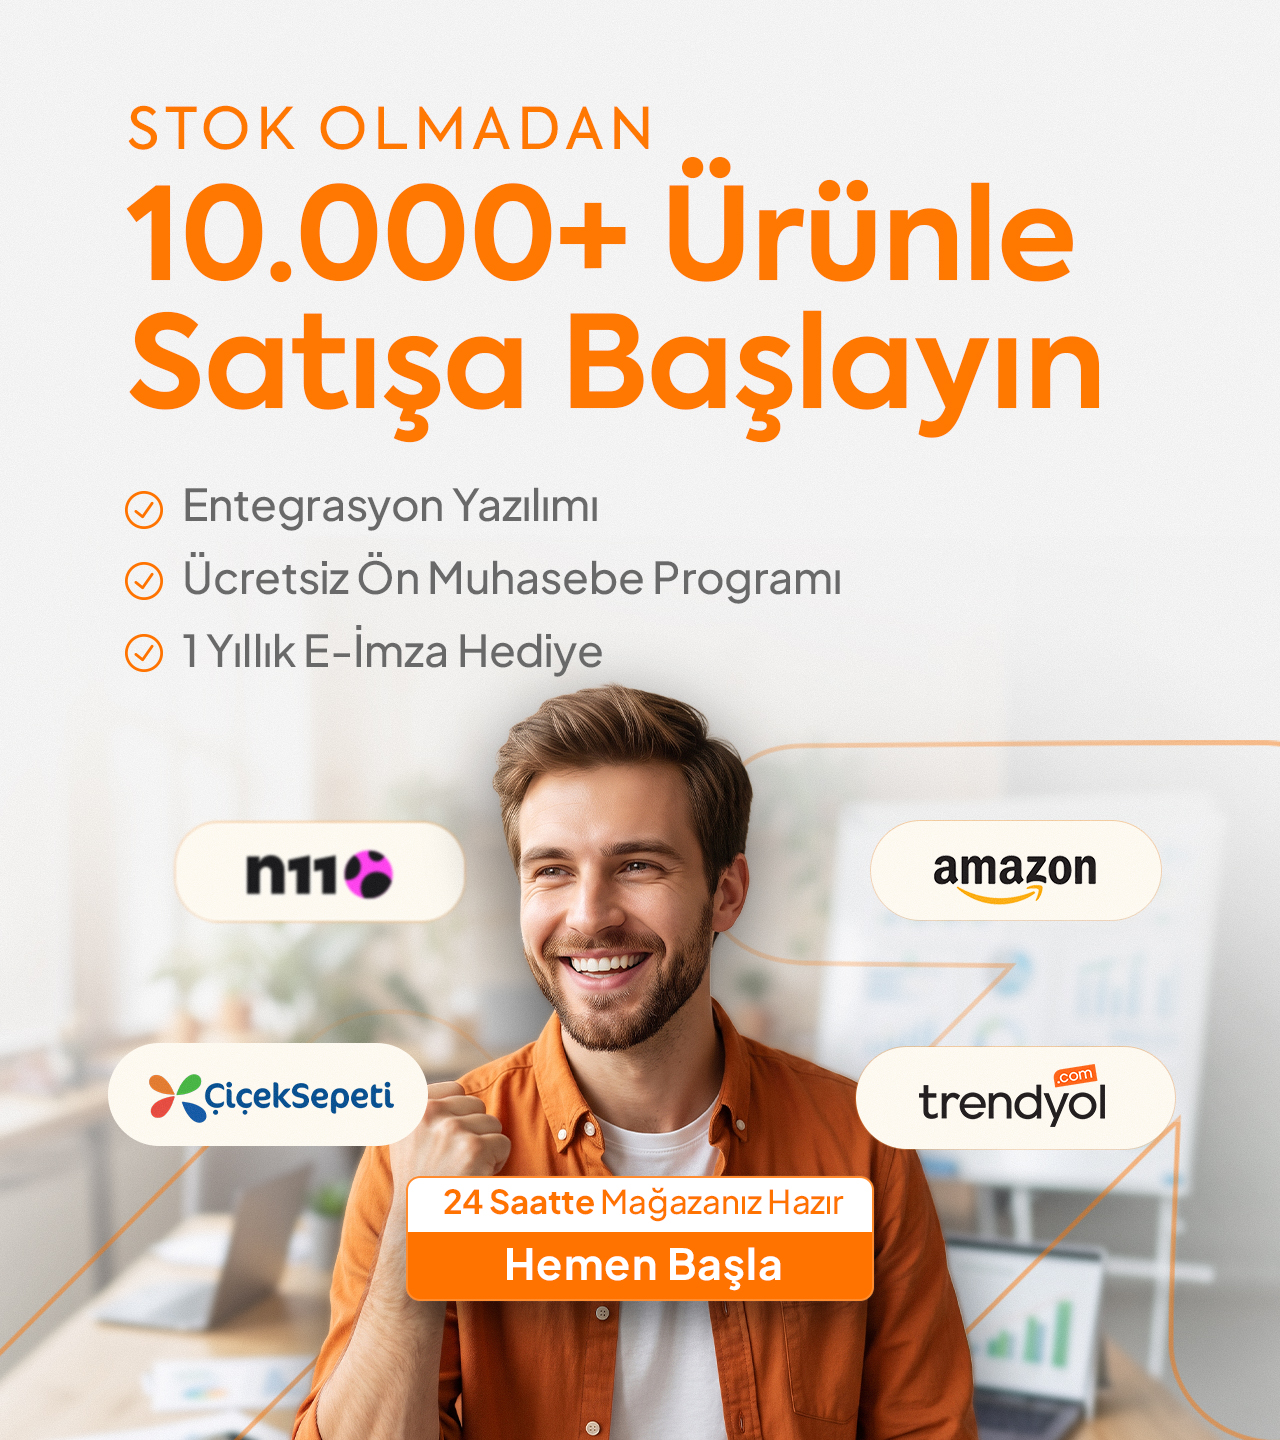
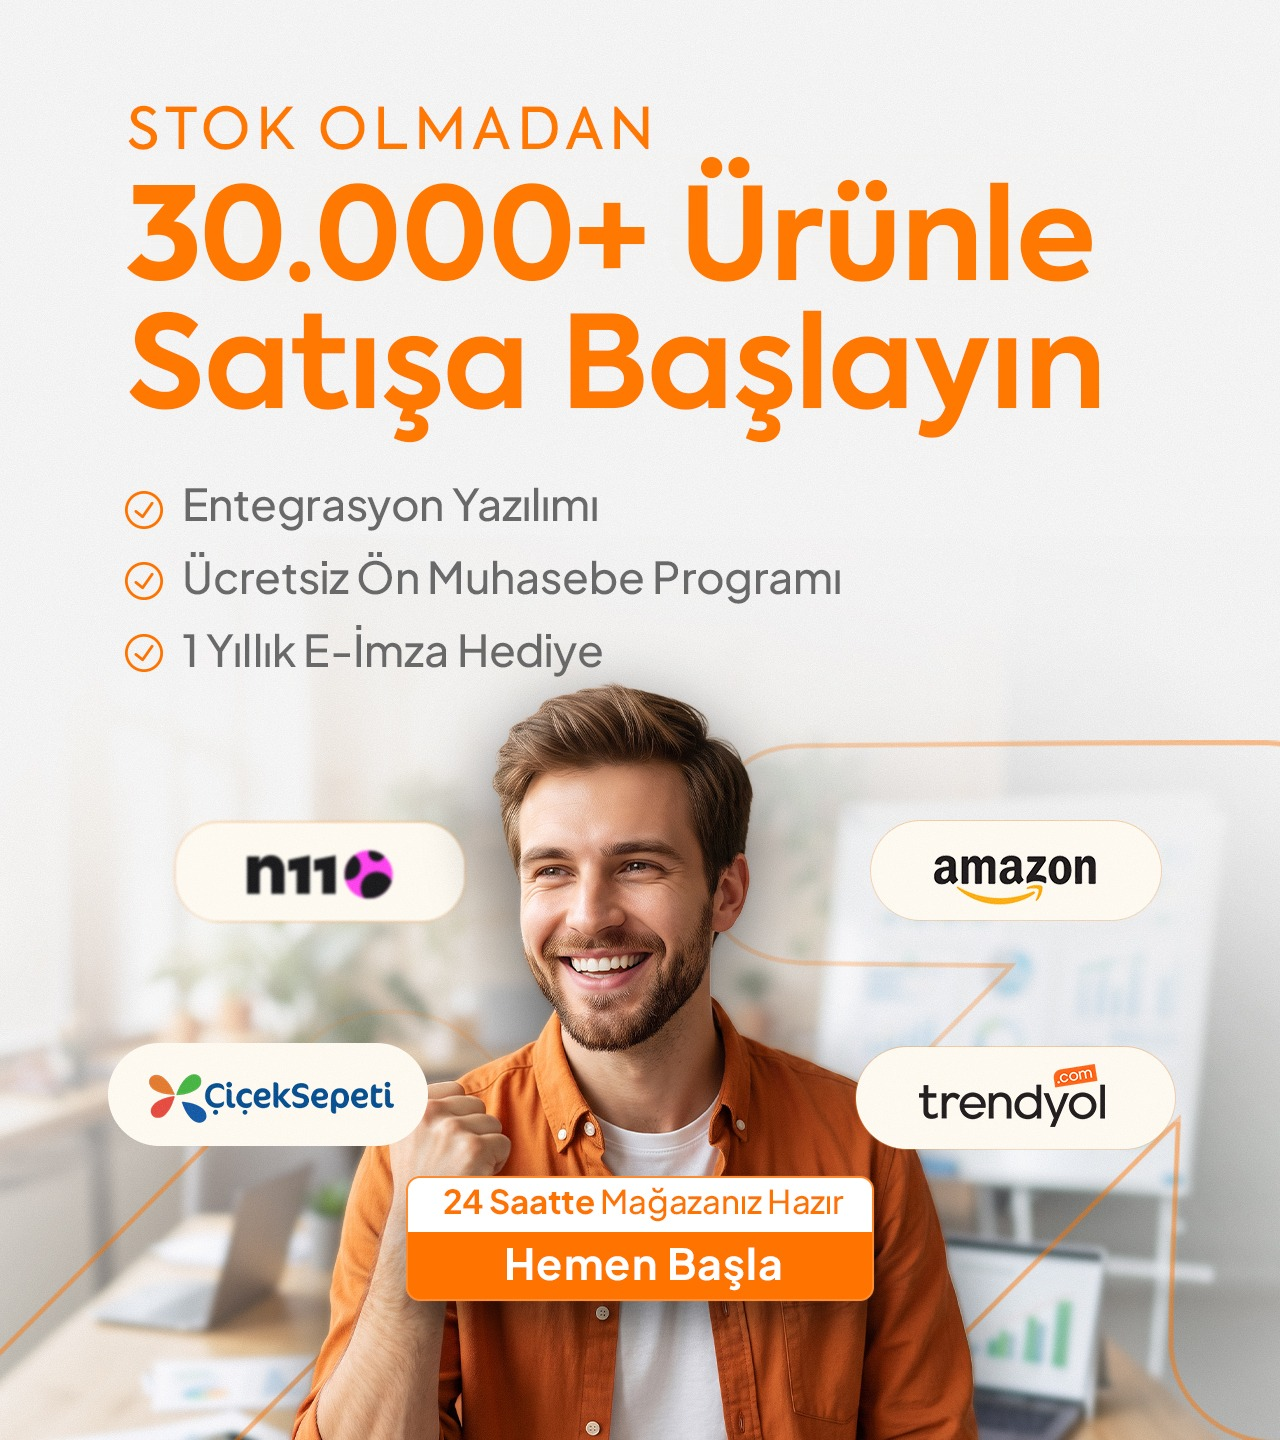
content: 30.000+ ürün sayısı ve yeni iletişim telefonu
- Slider görselleri (web1/mobil1) "30.000+ Ürünle" olarak düzenlendi, önbellek sürümü v=5
- Paket özelliklerindeki 15.000 / 8.000 + ürün ifadeleri 30.000 olarak güncellendi
- Telefon 0850 309 84 19 yerine 0532 390 86 18 (site, JSON-LD, llms ve ai metinleri)

diff --git a/pages/Paketler.tsx b/pages/Paketler.tsx
@@ -33,7 +33,7 @@ const COMPARISON_FEATURES = [
   { name: 'Kar Marjı Düzenleme & Finans Eğitimi', pazaryeri: true, sifirSermaye: false, fullFull: true },
   { name: 'Kargo ve Sevkiyat', pazaryeri: true, sifirSermaye: true, fullFull: true },
   { name: 'Kurulum Planı Dahil Hazır E-Ticaret Sitesi', pazaryeri: false, sifirSermaye: true, fullFull: true },
-  { name: "8.000 + Farklı Hazır Ürün", pazaryeri: true, sifirSermaye: true, fullFull: true },
+  { name: "30.000 + Farklı Hazır Ürün", pazaryeri: true, sifirSermaye: true, fullFull: true },
   { name: 'Hazır Ödeme Alt Yapısı', pazaryeri: false, sifirSermaye: true, fullFull: true },
   { name: '1 Yıllık Hosting Hizmeti', pazaryeri: false, sifirSermaye: true, fullFull: true },
   { name: 'Vergi ve Faturalama Modeli Bilgilendirmesi', pazaryeri: false, sifirSermaye: true, fullFull: true },
@@ -376,11 +376,11 @@ const Paketler: React.FC = () => {
             Paket kapsamlarını birlikte değerlendirelim; iş modelinize uygun yazılım, kurulum ve eğitim seçeneklerini netleştirelim.
           </p>
           <a
-            href="tel:08503098419"
+            href="tel:+905323908618"
             className="inline-flex min-h-14 w-full items-center justify-center gap-3 rounded-2xl bg-white px-6 py-4 text-base font-black text-orange-600 shadow-xl transition-all hover:bg-orange-50 sm:w-auto sm:px-10 sm:text-lg"
           >
             <Phone className="h-5 w-5 shrink-0 sm:h-6 sm:w-6" />
-            <span>Danışmanla Görüşün · 0850 309 84 19</span>
+            <span>Danışmanla Görüşün · 0532 390 86 18</span>
           </a>
           </Reveal>
         </div>

diff --git a/data/paketlerEgitimStoksuz.ts b/data/paketlerEgitimStoksuz.ts
@@ -24,7 +24,7 @@ export const EGITIM_STOKSUZ_PACKAGES: EgitimStoksuzPaket[] = [
       'N11 / Hepsiburada Panel Eğitimi & Ürün Yükleme',
       'Ürün Araştırma ve Satış Stratejisi Desteği',
       "5 Farklı Sektör, 50'den Fazla Kategori",
-      "8.000 + Hazır Farklı Ürün",
+      "30.000 + Hazır Farklı Ürün",
       'Tedarikçi İlişkileri',
       'Kar Marjı Düzenleme & Finans Eğitimi',
       'Kargo ve Sevkiyat',
@@ -40,7 +40,7 @@ export const EGITIM_STOKSUZ_PACKAGES: EgitimStoksuzPaket[] = [
     highlight: true,
     features: [
       'Kurulum Planı Dahil Hazır E-Ticaret Sitesi',
-      "8.000 + Farklı Hazır Ürün",
+      "30.000 + Farklı Hazır Ürün",
       'Hazır Ödeme Alt Yapısı',
       '1 Yıllık Hosting Hizmeti',
       'Ücretsiz Logo Tasarımı',
@@ -75,7 +75,7 @@ export const EGITIM_STOKSUZ_PACKAGES: EgitimStoksuzPaket[] = [
       'Kar Marjı Düzenleme & Finans Eğitimi',
       'Kargo ve Sevkiyat',
       'Kurulum Planı Dahil Hazır E-Ticaret Sitesi',
-      "8.000 + Farklı Hazır Ürün",
+      "30.000 + Farklı Hazır Ürün",
       '1 Yıllık Hosting Hizmeti',
       'Vergi ve Faturalama Modeli Bilgilendirmesi',
       'Kargo ve Depolama Hizmeti',

diff --git a/data/eticaretPaketOzellikleri.ts b/data/eticaretPaketOzellikleri.ts
@@ -36,7 +36,7 @@ export const YAZILIM_PACKAGES: YazilimPaket[] = [
     highlight: true,
     features: [
       'Başlangıç paketindeki tüm özellikler dahil',
-      'Trendmax Dropshipping (Hazır 15.000 Ürün)',
+      'Trendmax Dropshipping (Hazır 30.000 Ürün)',
       '8 Pazar Yeri Entegrasyonu',
       'E-fatura & E-arşiv GİB Entegrasyonu',
       'XML Import / Export Sistemi',
@@ -46,7 +46,7 @@ export const YAZILIM_PACKAGES: YazilimPaket[] = [
       'Sınırsız Ürün Varyantları',
       'Favorilere Ekleme Özelliği',
       'Toplu Ürün Güncelleme Modülü',
-      '15.000 Ürün ve Kategori Girişi',
+      '30.000 Ürün ve Kategori Girişi',
       '9 Farklı Entegrasyon',
       'Tüm Trendmax Paketlerinde %15 İndirim Hakkı',
     ],
@@ -59,7 +59,7 @@ export const YAZILIM_PACKAGES: YazilimPaket[] = [
     features: [
       'Uzman paketindeki tüm özellikler dahil',
       'Çift Taraflı Pazar Yeri Entegrasyonu',
-      'Dropshipping 15.000 Ürün + 2 XML Ürün Kaynağı',
+      'Dropshipping 30.000 Ürün + 2 XML Ürün Kaynağı',
       'Trendmax AI (Yapay Zeka Araçları)',
       '20 Adet E-Posta Hesabı',
       '10 GB Depolama Alanı',

diff --git a/data/heroImages.ts b/data/heroImages.ts
@@ -1,9 +1,9 @@
 export const HERO_IMAGES = {
   /** Ana sayfa hero — public/slider-images */
-  homesliderWeb1: '/slider-images/web1.jpg?v=4',
-  homesliderWeb2: '/slider-images/web2.jpg?v=4',
-  homesliderMobile1: '/slider-images/mobil1.jpg?v=4',
-  homesliderMobile2: '/slider-images/mobil2.jpg?v=4',
+  homesliderWeb1: '/slider-images/web1.jpg?v=5',
+  homesliderWeb2: '/slider-images/web2.jpg?v=5',
+  homesliderMobile1: '/slider-images/mobil1.jpg?v=5',
+  homesliderMobile2: '/slider-images/mobil2.jpg?v=5',
   export: 'https://images.unsplash.com/photo-1526304640581-d334cdbbf45e?auto=format&fit=crop&w=1600&q=80',
   mobile: 'https://images.unsplash.com/photo-1512941937669-90a1b58e7e9c?auto=format&fit=crop&w=1600&q=80',
   ecommerce: 'https://images.unsplash.com/photo-1556742049-0cfed4f6a45d?auto=format&fit=crop&w=1600&q=80',

diff --git a/index.html b/index.html
@@ -73,11 +73,11 @@
           "image": "https://trendmaxtr.com/hero/trendmax-corporate-operations-v1.webp",
           "description": "E-ticaret yazılımı, entegrasyon, kurulum ve eğitim çözümleri sunan Trendmax markası.",
           "email": "info@trendmaxtr.com",
-          "telephone": "+90 850 309 84 19",
+          "telephone": "+90 532 390 86 18",
           "contactPoint": {
             "@type": "ContactPoint",
             "contactType": "customer support",
-            "telephone": "+90 850 309 84 19",
+            "telephone": "+90 532 390 86 18",
             "email": "info@trendmaxtr.com",
             "availableLanguage": "Turkish"
           },

diff --git a/data/company.ts b/data/company.ts
@@ -2,8 +2,8 @@ export const COMPANY_CONTACT = {
   brandName: 'Trendmax',
   legalName: 'AYŞE KIRAĞI',
   website: 'https://trendmaxtr.com',
-  phoneDisplay: '0850 309 84 19',
-  phoneHref: 'tel:+908503098419',
+  phoneDisplay: '0532 390 86 18',
+  phoneHref: 'tel:+905323908618',
   whatsappDisplay: '0532 390 86 18',
   whatsappNumber: '905323908618',
   email: 'info@trendmaxtr.com',

diff --git a/components/HeroSlider.tsx b/components/HeroSlider.tsx
@@ -7,7 +7,7 @@ const SLIDES = [
   {
     imageWeb: HERO_IMAGES.homesliderWeb1,
     imageMobile: HERO_IMAGES.homesliderMobile1,
-    imageAlt: 'Stok olmadan 10.000+ ürünle satışa başlayın',
+    imageAlt: 'Stok olmadan 30.000+ ürünle satışa başlayın',
   },
   {
     imageWeb: HERO_IMAGES.homesliderWeb2,

diff --git a/public/ai/trendmax-hakkinda.md b/public/ai/trendmax-hakkinda.md
@@ -7,7 +7,7 @@ Trendmax, e-ticaret yazılımı, mağaza kurulumu, entegrasyon ve eğitim hizmet
 - Marka adı: Trendmax
 - Yasal işletmeci: AYŞE KIRAĞI
 - Resmî alan adı: https://trendmaxtr.com/
-- Telefon: 0850 309 84 19
+- Telefon: 0532 390 86 18
 - E-posta: info@trendmaxtr.com
 - Bursa adresi: Konak Mah. Lefkoşe Cad. Barış Sok. Ofis + Plaza Nilüfer, Bursa
 - Birleşik Krallık adresi: 71-75 Shelton Street, Covent Garden, London, United Kingdom WC2H 9JQ

diff --git a/public/ai/sss.md b/public/ai/sss.md
@@ -26,4 +26,4 @@ Gereklilik iş modeline ve satış kanalına göre değişir. Pazaryerlerinde ti
 
 ## Destek kanalları nelerdir?
 
-Telefon 0850 309 84 19, e-posta info@trendmaxtr.com ve https://trendmaxtr.com/iletisim sayfasındaki kanallar kullanılabilir.
+Telefon 0532 390 86 18, e-posta info@trendmaxtr.com ve https://trendmaxtr.com/iletisim sayfasındaki kanallar kullanılabilir.

diff --git a/public/ai/yasal-ve-iletisim.md b/public/ai/yasal-ve-iletisim.md
@@ -4,7 +4,7 @@ Yasal işletmeci AYŞE KIRAĞI, marka Trendmax'tır. Resmî iletişim bilgileri 
 
 ## İletişim
 
-- Telefon: 0850 309 84 19
+- Telefon: 0532 390 86 18
 - E-posta: info@trendmaxtr.com
 - Bursa adresi: Konak Mah. Lefkoşe Cad. Barış Sok. Ofis + Plaza Nilüfer, Bursa
 
